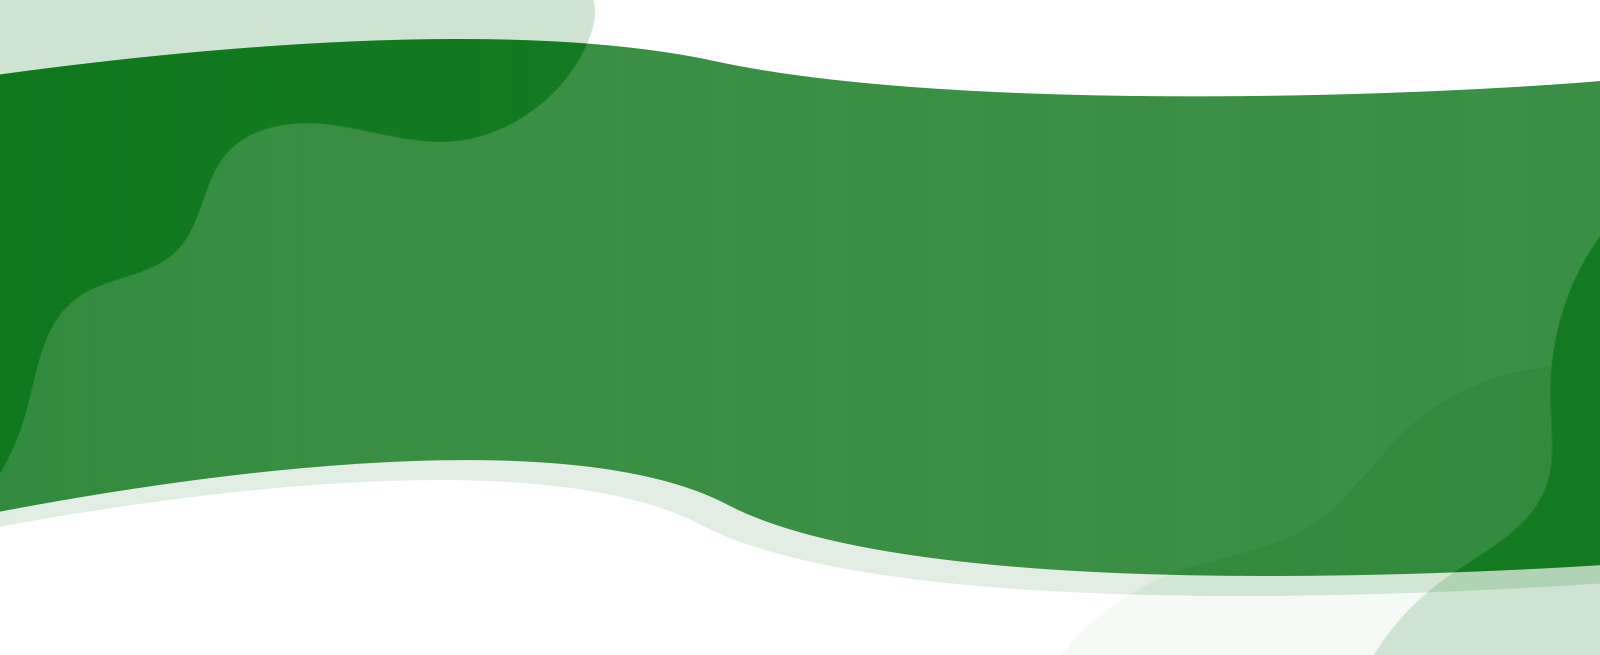
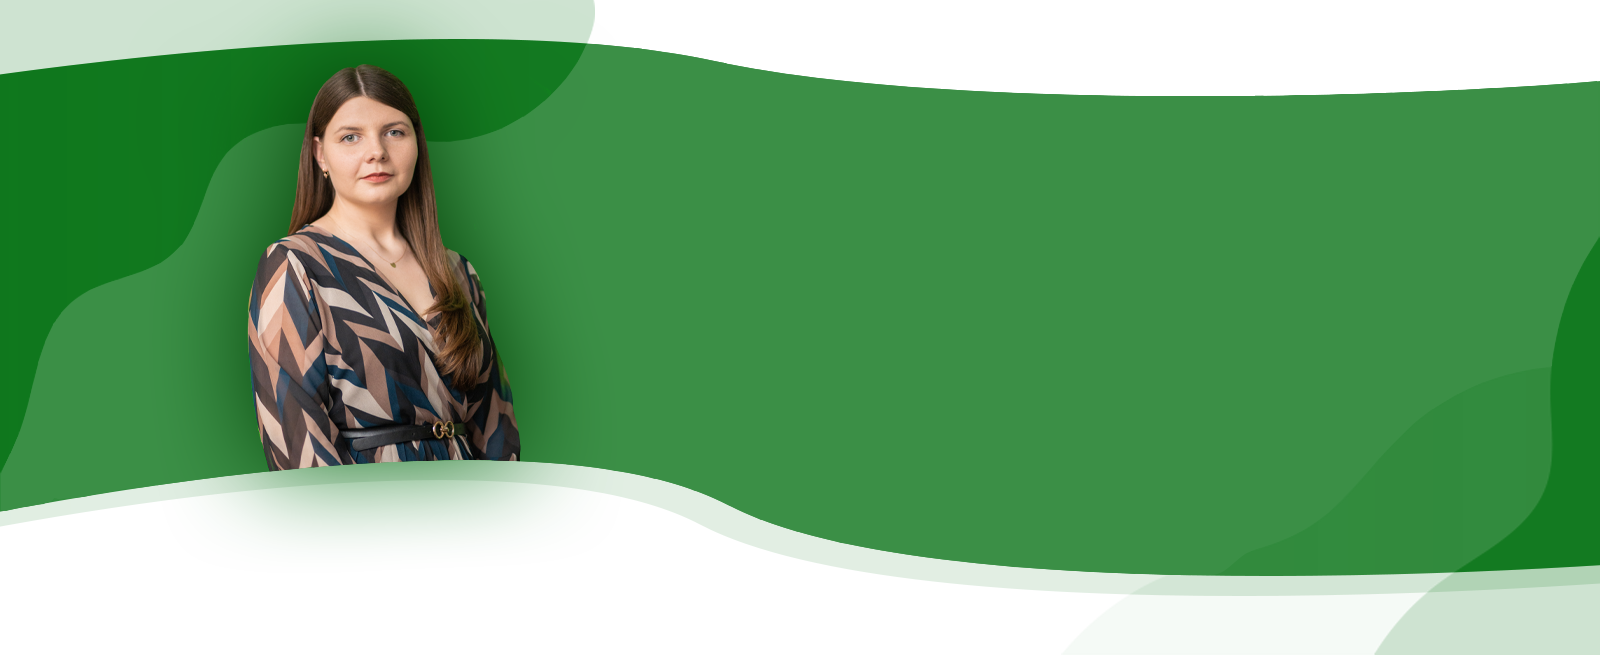
dalsze poprawki css, zmiana bloga, foty part 2

Changed region(s): [[0.125, 0.0305, 0.3438, 0.8244]]

diff --git a/qumaszpage/templates/conowego/post_list.html b/qumaszpage/templates/conowego/post_list.html
@@ -1,40 +1,57 @@
 {% extends 'base.html' %}
 
 {% block content %}
-  {% for post in posts %}
 
-  <div id="blog" class="our-blog section">
+
+<div id="blog" class="our-blog section">
     <div class="container">
       <div class="row">
-        <div class="col-lg-6 wow fadeInDown" data-wow-duration="1s" data-wow-delay="0.25s">
+        <div class="col-lg-6 wow fadeInDown animated" data-wow-duration="1s" data-wow-delay="0.25s" style="visibility: visible;-webkit-animation-duration: 1s; -moz-animation-duration: 1s; animation-duration: 1s;-webkit-animation-delay: 0.25s; -moz-animation-delay: 0.25s; animation-delay: 0.25s;">
           <div class="section-heading">
             <h2>Co nowego w <span>Qumasz</span></h2>
           </div>
         </div>
-        <div class="col-lg-6 wow fadeInDown" data-wow-duration="1s" data-wow-delay="0.25s">
+        <div class="col-lg-6 wow fadeInDown animated" data-wow-duration="1s" data-wow-delay="0.25s" style="visibility: visible;-webkit-animation-duration: 1s; -moz-animation-duration: 1s; animation-duration: 1s;-webkit-animation-delay: 0.25s; -moz-animation-delay: 0.25s; animation-delay: 0.25s;">
           <div class="top-dec">
-            <img src="images/blog-dec.png" alt="">
+            <img src="static/images/blog-dec.png" alt="">
           </div>
         </div>
       </div>
       <div class="row">
-        <div class="col-lg-6 wow fadeInUp" data-wow-duration="1s" data-wow-delay="0.25s">
+        <div class="col-lg-6 wow fadeInUp animated" data-wow-duration="1s" data-wow-delay="0.25s" style="visibility: visible;-webkit-animation-duration: 1s; -moz-animation-duration: 1s; animation-duration: 1s;-webkit-animation-delay: 0.25s; -moz-animation-delay: 0.25s; animation-delay: 0.25s;">
           <div class="left-image">
-            <a href="#"><img src="{{ post.image.url }}" alt=""></a>
+            <a href="#"><img src="assets/images/big-blog-thumb.jpg" alt="Workspace Desktop"></a>
             <div class="info">
               <div class="inner-content">
                 <ul>
-                  <li><i class="fa fa-calendar"></i>{{ post.published_date }}</li>
-                  <li><i class="fa fa-users"></i> {{ post.author }}</li>
+                  <li><i class="fa fa-calendar"></i> 24 Mar 2021</li>
+                  <li><i class="fa fa-users"></i> TemplateMo</li>
+                  <li><i class="fa fa-folder"></i> Branding</li>
                 </ul>
-                <a href="{% url 'post_detail' pk=post.pk %}"><h4>{{ post.title }}</h4></a>
-                <p>{{ post.text|linebreaksbr }}</p>
+                <a href="#"><h4>SEO Agency &amp; Digital Marketing</h4></a>
+                <p>Lorem ipsum dolor sit amet, consectetur and sed doer ket eismod tempor incididunt ut labore et dolore magna...</p>
               </div>
             </div>
+          </div>
+        </div>
+        <div class="col-lg-6 wow fadeInUp animated" data-wow-duration="1s" data-wow-delay="0.25s" style="visibility: visible;-webkit-animation-duration: 1s; -moz-animation-duration: 1s; animation-duration: 1s;-webkit-animation-delay: 0.25s; -moz-animation-delay: 0.25s; animation-delay: 0.25s;">
+          <div class="right-list">
+            <ul>
+              <li>
+                <div class="left-content align-self-center">
+                  <span><i class="fa fa-calendar"></i> 18 Mar 2021</span>
+                  <a href="#"><h4>New Websites &amp; Backlinks</h4></a>
+                  <p>Lorem ipsum dolor sit amsecteturii and sed doer ket eismod...</p>
+                </div>
+                <div class="right-image">
+                  <a href="#"><img src="assets/images/blog-thumb-01.jpg" alt=""></a>
+                </div>
+              </li>
+            </ul>
           </div>
         </div>
       </div>
     </div>
   </div>
-  {% endfor %}
+
 {% endblock %}

diff --git a/qumaszpage/static/css/templatemo-space-dynamic.css b/qumaszpage/static/css/templatemo-space-dynamic.css
@@ -1,9 +1,37 @@
+Skip to content
+Search or jump to…
+Pull requests
+Issues
+Codespaces
+Marketplace
+Explore
+
+@Bastian8004
+Bastian8004
+/
+QumaszPageDjango
+Public
+Cannot fork because you own this repository and are not a member of any organizations.
+Code
+Issues
+Pull requests
+Actions
+Projects
+Wiki
+Security
+Insights
+Settings
+QumaszPageDjango/qumaszpage/static/css/templatemo-space-dynamic.css
+@Bastian8004
+Bastian8004 poprawki css, wgranie nowych grafik part1
+Latest commit 08cc121 3 days ago
+ History
+ 1 contributor
+1588 lines (1383 sloc)  29.5 KB
+
 /*
-
 TemplateMo 562 Space Dynamic
-
 https://templatemo.com/tm-562-space-dynamic
-
 */
 
 /* ---------------------------------------------
@@ -21,7 +49,6 @@ Table of contents
 10. preloader
 11. search
 12. portfolio
-
 --------------------------------------------- */
 /*
 ---------------------------------------------
@@ -178,7 +205,7 @@ body {
 
 .section-heading h2 {
   font-size: 30px;
-  text-transform: capitalize;
+  text-transform: ;
   color: #2a2a2a;
   font-weight: 700;
   letter-spacing: 0.25px;
@@ -189,7 +216,7 @@ body {
 
 .section-heading h3 {
   font-size: 30px;
-  text-transform: capitalize;
+  text-transform: ;
   color: #fff;
   font-weight: 700;
   letter-spacing: 0.25px;
@@ -213,7 +240,7 @@ body {
   font-size: 15px;
   font-weight: 400;
   color: #fff;
-  text-transform: capitalize;
+  text-transform: ;
   padding: 12px 25px;
   border-radius: 23px;
   letter-spacing: 0.25px;
@@ -225,7 +252,7 @@ body {
   font-size: 15px;
   font-weight: 400;
   color: #fff;
-  text-transform: capitalize;
+  text-transform: ;
   padding: 12px 25px;
   border-radius: 23px;
   letter-spacing: 0.25px;
@@ -237,7 +264,7 @@ body {
   font-size: 15px;
   font-weight: 400;
   color: #0e771b;
-  text-transform: capitalize;
+  text-transform: ;
   padding: 12px 25px;
   border-radius: 23px;
   letter-spacing: 0.25px;
@@ -370,7 +397,7 @@ header
   font-weight: 500;
   font-size: 15px;
   color: #2a2a2a;
-  text-transform: capitalize;
+  text-transform: ;
   -webkit-transition: all 0.3s ease 0s;
   -moz-transition: all 0.3s ease 0s;
   -o-transition: all 0.3s ease 0s;
@@ -920,7 +947,7 @@ Banner Style
   font-size: 15px;
   font-weight: 500;
   color: #0e771b;
-  text-transform: capitalize;
+  text-transform: ;
   padding: 12px 25px;
   border-radius: 23px;
   letter-spacing: 0.25px;
@@ -963,7 +990,7 @@ About Us Style
   background-repeat: no-repeat;
   background-position: center center;
   background-size: cover;
-  padding: 140px 0px 120px 0px;
+  padding: 270px 0px 300px 150px;
 }
 
 .about-us .left-image {
@@ -1234,7 +1261,7 @@ Blog
 }
 
 .our-blog .left-image ul li i {
-  color: #ff4d61;
+  color: #0e771b;
   font-size: 16px;
   margin-right: 8px;
 }
@@ -1273,7 +1300,7 @@ Blog
 }
 
 .our-blog .right-list .left-content span i {
-  color: #ff4d61;
+  color: #0e771b;
   font-size: 16px;
   margin-right: 8px;
 }
@@ -1335,7 +1362,7 @@ contact
   line-height: 46px;
   background-color: #fff;
   border-radius: 50%;
-  color: #ff3b2c;
+  color: #0e771b;
   font-size: 22px;
   margin-left: 30px;
   margin-right: 15px;
@@ -1411,7 +1438,7 @@ form#contact button {
   font-size: 15px;
   font-weight: 400;
   color: #fff;
-  text-transform: capitalize;
+  text-transform: ;
   padding: 12px 25px;
   border-radius: 23px;
   letter-spacing: 0.25px;
@@ -1586,3 +1613,18 @@ responsive
     margin-left: 0px;
   }
 }
+Footer
+© 2023 GitHub, Inc.
+Footer navigation
+Terms
+Privacy
+Security
+Status
+Docs
+Contact GitHub
+Pricing
+API
+Training
+Blog
+About
+QumaszPageDjango/templatemo-space-dynamic.css at main · Bastian8004/QumaszPageDjango

diff --git a/qumaszpage/templates/opinie/opinie.html b/qumaszpage/templates/opinie/opinie.html
@@ -3,16 +3,6 @@
 {% block content %}
 
  <div id="blog" class="our-blog section">
-    <div class="container">
-      <div class="row">
-        <div class="col-lg-6 wow fadeInDown" data-wow-duration="1s" data-wow-delay="0.25s">
-        </div>
-        <div class="col-lg-6 wow fadeInDown" data-wow-duration="1s" data-wow-delay="0.25s">
-          <div class="top-dec">
-            <img src="assets/images/blog-dec.png" alt="">
-          </div>
-        </div>
-      </div>
       <div class="row">
         <div class="col-lg-6 wow fadeInUp" data-wow-duration="1s" data-wow-delay="0.25s">
         {% for opinion in opinions %}
@@ -22,11 +12,13 @@
         <br/>
             <p>" <em>{{ opinion.text|linebreaksbr }}</em> "</p><br/>
         </div>
+            <br>
         {% endfor %}
         </div>
       </div>
-    </div>
-  </div>
+ </div>
+
+
 
 {% endblock %}
 

diff --git a/qumaszpage/templates/main.html b/qumaszpage/templates/main.html
@@ -10,7 +10,7 @@
             <div class="col-lg-6 align-self-center">
               <div class="left-content header-text wow fadeInLeft" data-wow-duration="1s" data-wow-delay="1s">
                 <h6>WITAMY W QUMASZ</h6>
-                <h2>Korepetycje z matematyki <br> <em> z wykożystaniem</em> <span> nowoczesnych</span> technologii!</h2>
+                <h2>Korepetycje z matematyki <br> <em> z wykorzystaniem</em> <span> nowoczesnych</span> technologii!</h2>
 
               </div>
             </div>

diff --git a/qumaszpage/templates/onas.html b/qumaszpage/templates/onas.html
@@ -6,9 +6,7 @@
     <div class="container">
       <div class="row">
         <div class="col-lg-4">
-          <div class="left-image wow fadeIn" data-wow-duration="1s" data-wow-delay="0.2s">
-            <img src="static/images/about-left-image.png" alt="person graphic">
-          </div>
+
         </div>
         <div class="col-lg-8 align-self-center">
           <div class="services">
